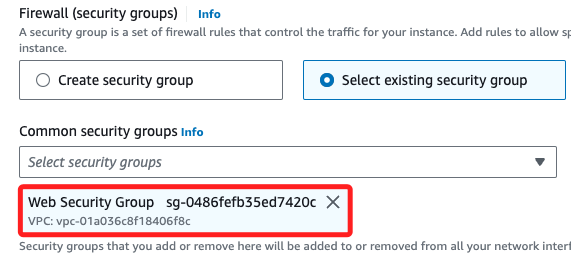
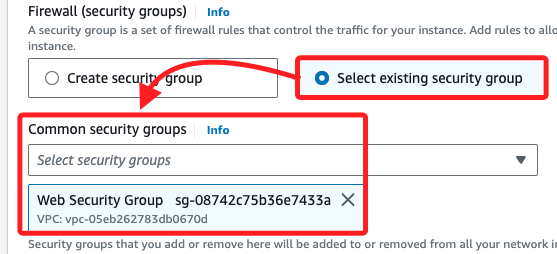
Commit on 2024-10-12 18:50:53

Changed region(s): [[0.0305, 0.0, 1.0, 0.9921]]

diff --git a/01_課程筆記/00_Lab/90628/Lab2_VPC/Task 02.md b/01_課程筆記/00_Lab/90628/Lab2_VPC/Task 02.md
@@ -196,7 +196,7 @@ _比照之前步驟_
 
 <br>
 
-2. 防火牆 `Firewall` 選擇 `Web Security Group`。
+2. 防火牆 `Firewall` 切換到 `Select existing security group`，然後在選單中選擇 `Web Security Group`。
 
     ![](images/img_38.png)
 
